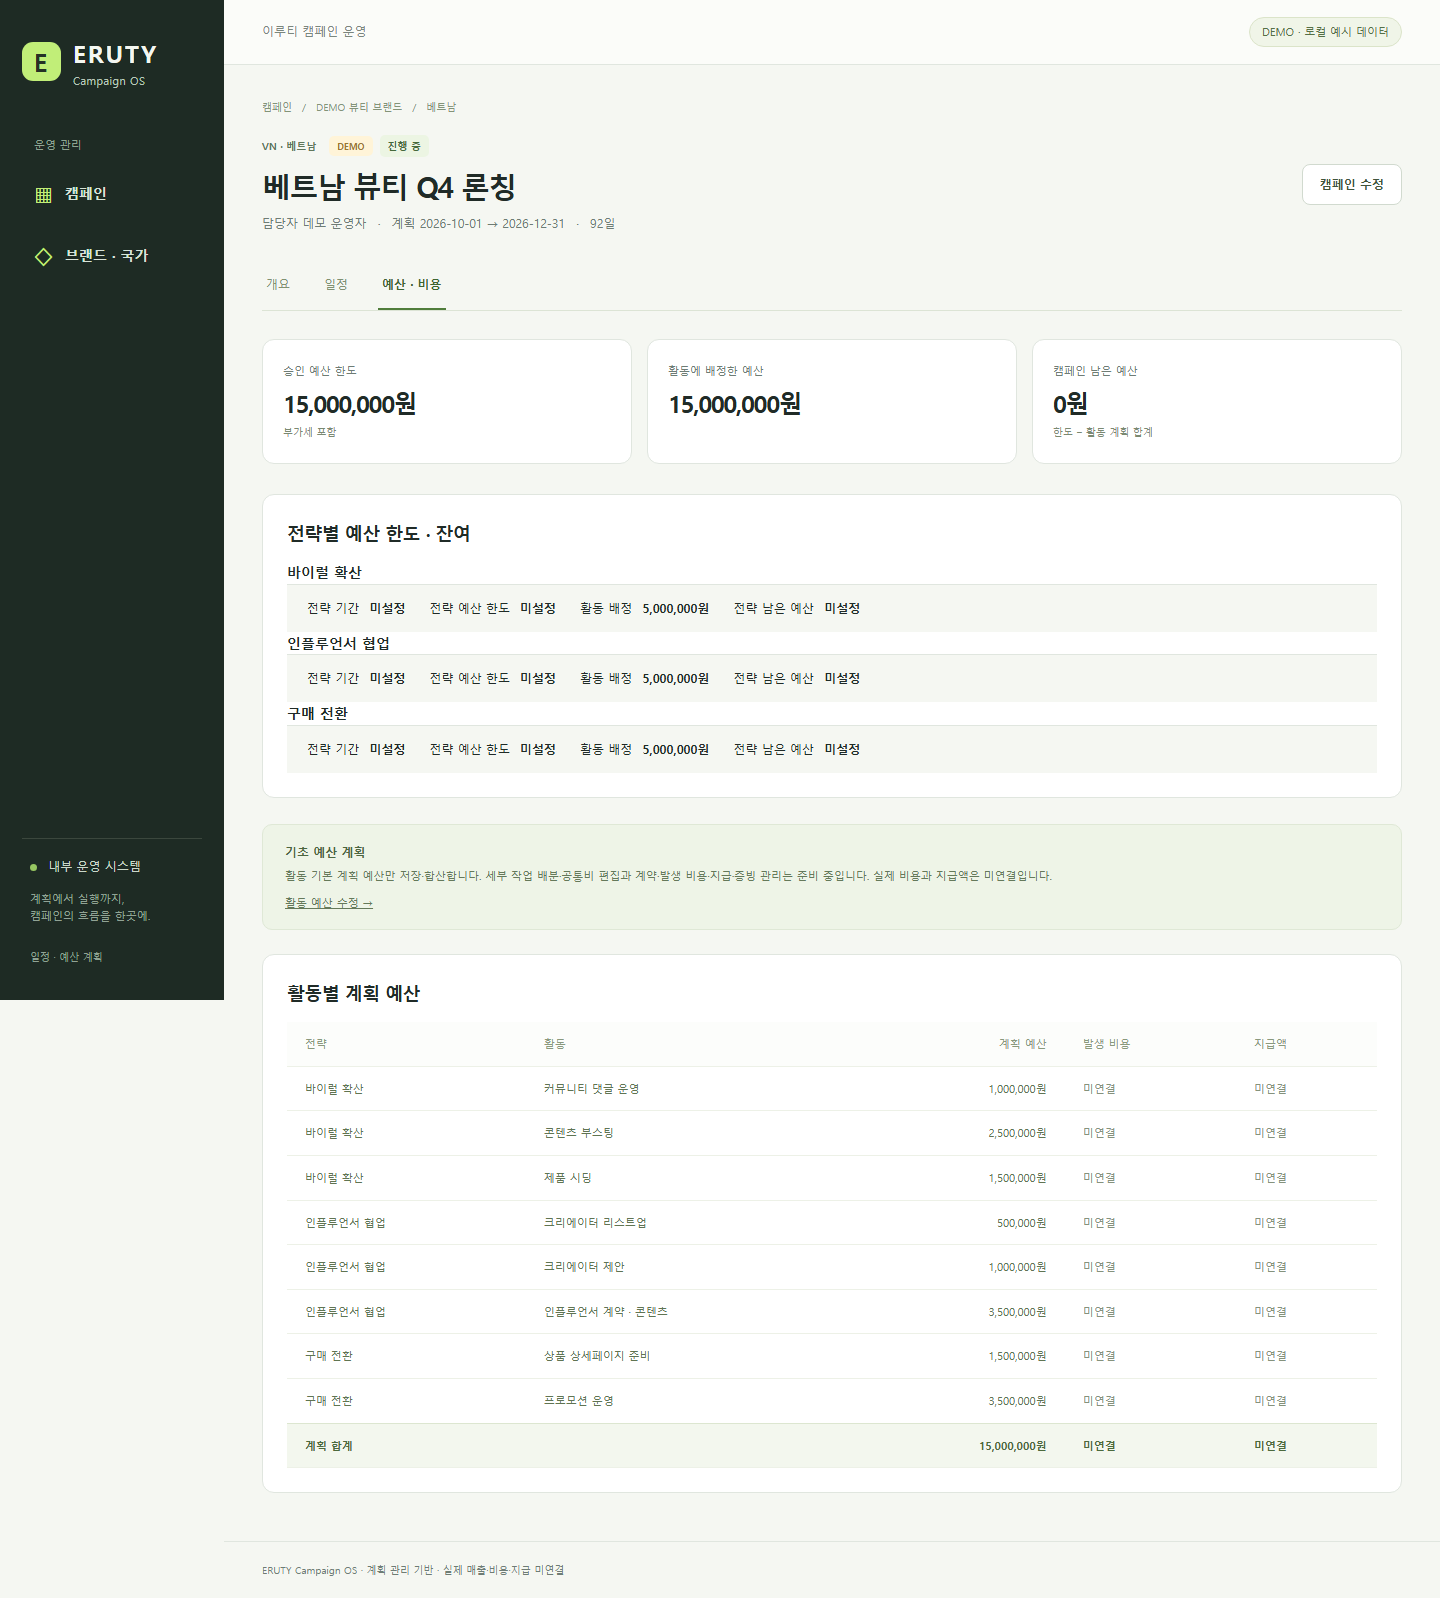
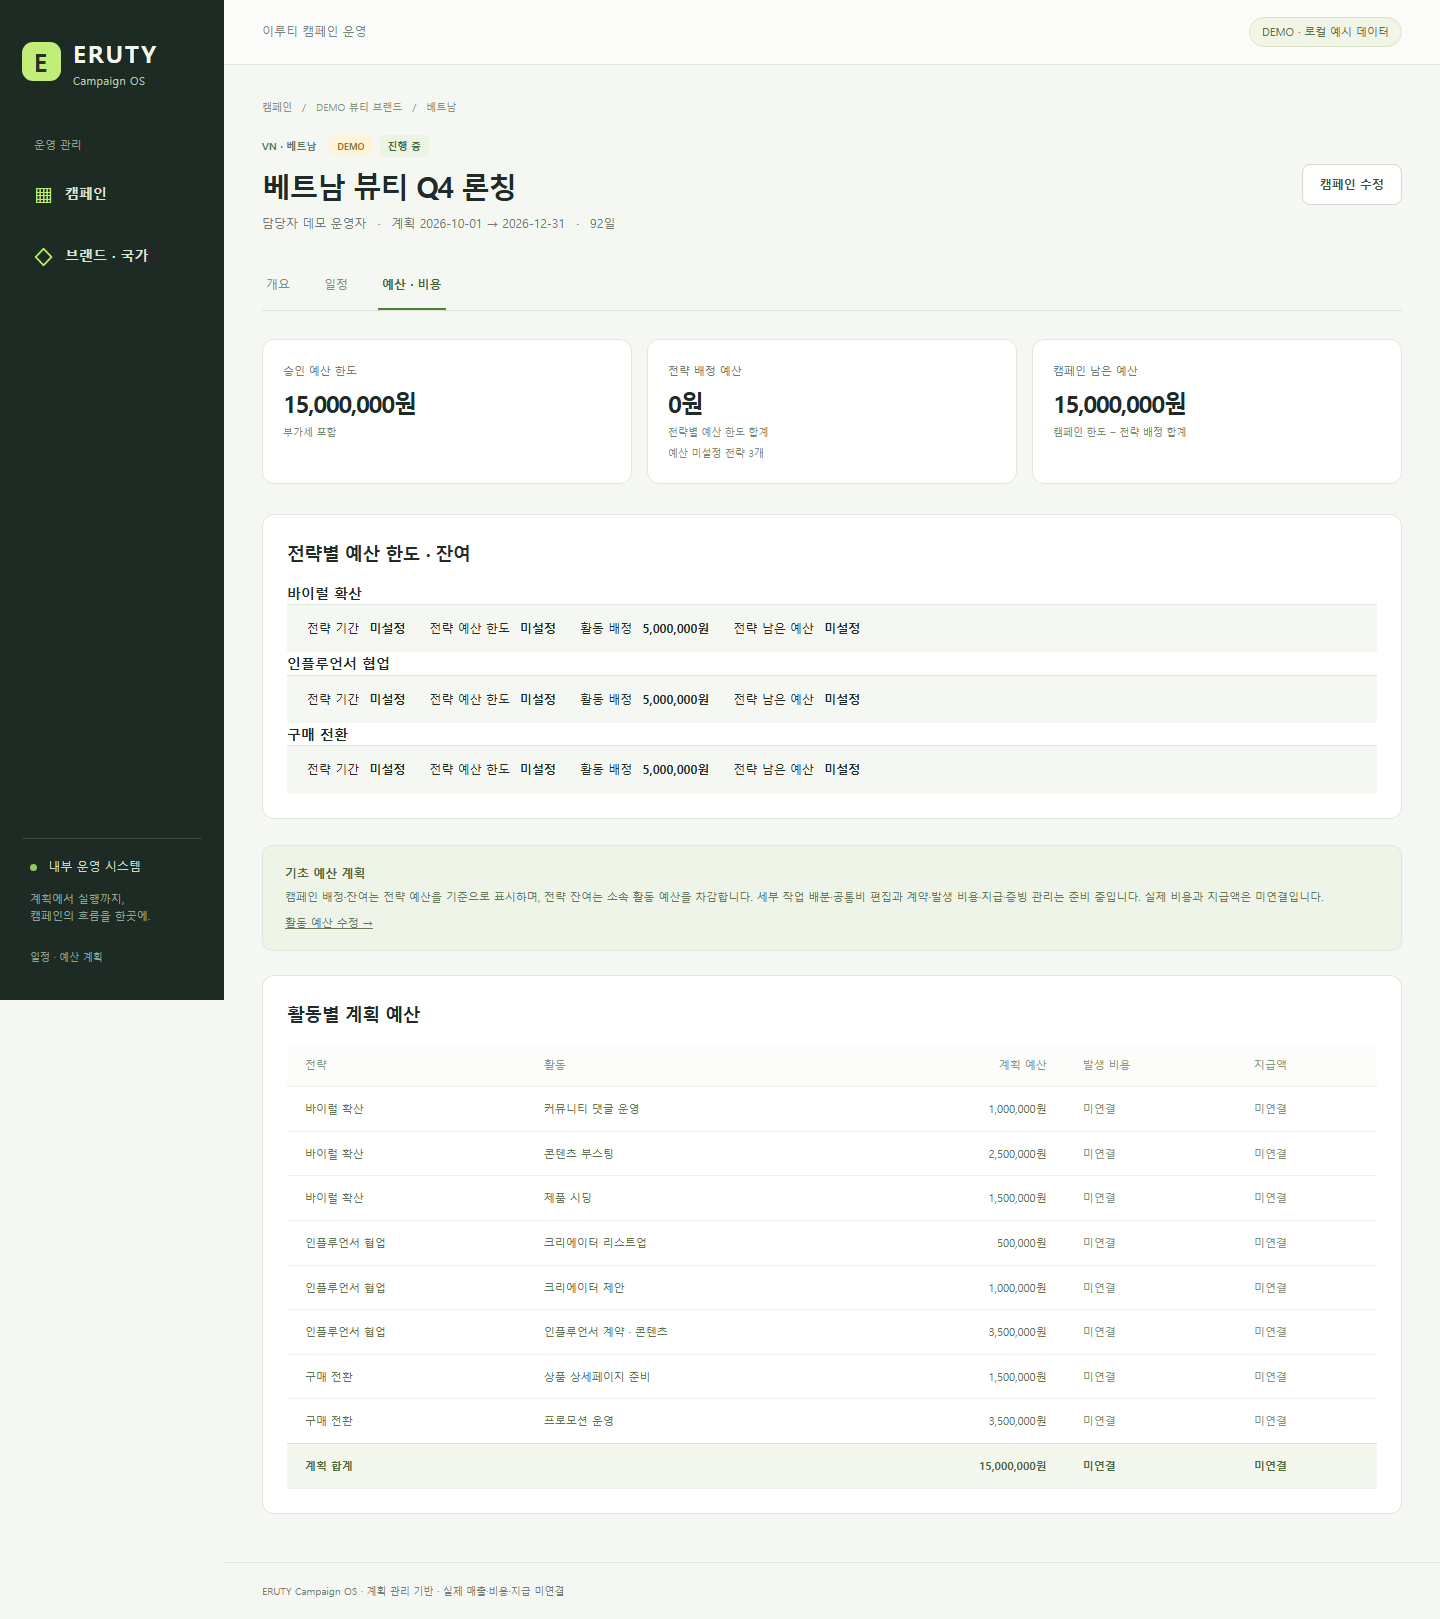
fix: summarize campaign budget allocations by strategy

diff --git a/components/campaign-detail.tsx b/components/campaign-detail.tsx
@@ -306,11 +306,12 @@ export default function CampaignDetail({
               </p>
             </div>
             <div className="metric">
-              <span>활동 배정 예산</span>
+              <span>전략 배정 예산</span>
               <strong className="amount">
-                {krw(c.summary.allocatedPlanKrw)}
+                {krw(c.summary.allocatedStrategyKrw)}
               </strong>
-              <Link href={`/campaigns/${id}/budget`}>활동별 계획 보기 →</Link>
+              <Link href={`/campaigns/${id}/budget`}>전략별 배정 보기 →</Link>
+              {c.summary.unbudgetedStrategyCount > 0 && <p>예산 미설정 전략 {c.summary.unbudgetedStrategyCount}개</p>}
             </div>
             <div className="metric">
               <span>순판매액 목표</span>
@@ -324,7 +325,7 @@ export default function CampaignDetail({
             </div>
           </div>
           <div className="overview-strip">
-            <div>캠페인 남은 예산 <strong>{krw(c.summary.unallocatedPlanKrw)}</strong>{c.summary.overBudget && <span className="badge warning">한도 초과</span>}</div>
+            <div>캠페인 남은 예산 <strong>{krw(c.summary.unallocatedStrategyKrw)}</strong>{c.summary.strategyOverBudget && <span className="badge warning">한도 초과</span>}</div>
             <div>
               <span className="dot green" />
               활동 <strong>{c.summary.activityCount}</strong>
@@ -567,28 +568,31 @@ export default function CampaignDetail({
               </p>
             </div>
             <div className="metric">
-              <span>활동에 배정한 예산</span>
+              <span>전략 배정 예산</span>
               <strong className="amount">
-                {krw(c.summary.allocatedPlanKrw)}
+                {krw(c.summary.allocatedStrategyKrw)}
               </strong>
+              <p>전략별 예산 한도 합계</p>
+              {c.summary.unbudgetedStrategyCount > 0 && <p>예산 미설정 전략 {c.summary.unbudgetedStrategyCount}개</p>}
             </div>
             <div
-              className={`metric ${c.summary.overBudget ? "over-budget" : ""}`}
+              className={`metric ${c.summary.strategyOverBudget ? "over-budget" : ""}`}
             >
               <span>
-                {c.summary.overBudget ? "예산 한도 초과" : "캠페인 남은 예산"}
+                {c.summary.strategyOverBudget ? "예산 한도 초과" : "캠페인 남은 예산"}
               </span>
               <strong className="amount">
-                {krw(c.summary.unallocatedPlanKrw)}
+                {krw(c.summary.unallocatedStrategyKrw)}
               </strong>
-              <p>한도 − 활동 계획 합계</p>
+              <p>캠페인 한도 − 전략 배정 합계</p>
             </div>
           </div>
           <section className="panel"><h2>전략별 예산 한도 · 잔여</h2>{c.strategies.map(strategy => <div key={strategy.id}><h3>{strategy.name}</h3><StrategyPlan strategy={strategy} workItems={c.workItems} campaign={c} /></div>)}</section>
           <aside className="note">
             <strong>기초 예산 계획</strong>
             <p>
-              활동 기본 계획 예산만 저장·합산합니다. 세부 작업 배분·공통비
+              캠페인 배정·잔여는 전략 예산을 기준으로 표시하며, 전략 잔여는
+              소속 활동 예산을 차감합니다. 세부 작업 배분·공통비
               편집과 계약·발생 비용·지급·증빙 관리는 준비 중입니다. 실제 비용과
               지급액은 미연결입니다.
             </p>

diff --git a/tests/unit/domain.test.ts b/tests/unit/domain.test.ts
@@ -71,12 +71,37 @@ describe("기초 데이터 검증", () => {
   });
 });
 describe("정확한 계획 집계", () => {
+  it("캠페인 잔여는 전략 배정 합계로 계산하고 활동을 중복 차감하지 않는다", () => {
+    const input = {
+      planStart: toDate("2026-10-01"), planEnd: toDate("2026-10-31"),
+      budgetCeilingKrw: 2500000n,
+      strategies: [{ budgetCeilingKrw: 100000n }, { budgetCeilingKrw: 1000000n }, { budgetCeilingKrw: null }],
+      budgetLines: [{ plannedAmountKrw: 100000n }], workItems: [],
+    };
+    expect(campaignSummary(input)).toMatchObject({
+      allocatedStrategyKrw: "1100000", unallocatedStrategyKrw: "1400000",
+      strategyOverBudget: false, unbudgetedStrategyCount: 1,
+      allocatedPlanKrw: "100000",
+    });
+    expect(campaignSummary({ ...input, budgetLines: [{ plannedAmountKrw: 500000n }] }).unallocatedStrategyKrw).toBe("1400000");
+    expect(campaignSummary({ ...input, strategies: [] }).unallocatedStrategyKrw).toBe("2500000");
+    expect(campaignSummary({ ...input, strategies: [{ budgetCeilingKrw: 0n }] }).unbudgetedStrategyCount).toBe(0);
+  });
+  it("전략 배정 초과와 큰 원화 합계를 정밀하게 계산한다", () => {
+    expect(campaignSummary({
+      planStart: toDate("2026-10-01"), planEnd: toDate("2026-10-31"),
+      budgetCeilingKrw: 9007199254740993n,
+      strategies: [{ budgetCeilingKrw: 9007199254740993n }, { budgetCeilingKrw: 1n }],
+      budgetLines: [], workItems: [],
+    })).toMatchObject({ allocatedStrategyKrw: "9007199254740994", unallocatedStrategyKrw: "-1", strategyOverBudget: true });
+  });
   it("겹치는 활동 기간을 더하지 않고 예산 항목만 한 번 더한다", () => {
     const result = campaignSummary(
       {
         planStart: toDate("2026-10-01"),
         planEnd: toDate("2026-10-10"),
         budgetCeilingKrw: 15n,
+        strategies: [],
         budgetLines: [{ plannedAmountKrw: 10n }, { plannedAmountKrw: 8n }],
         workItems: [
           {

diff --git a/tests/integration/crud.test.ts b/tests/integration/crud.test.ts
@@ -139,6 +139,7 @@ describe("실제 PostgreSQL / Prisma CRUD", () => {
     const campaign = await svc.saveCampaign(admin, { ...campaignInput(`TEST 전략 계획 ${runId}`), budgetCeilingKrw: "1000000" });
     let strategy = await svc.saveStrategy(admin, campaign.id, { name: "TEST 계획 전략", sortOrder: 0, planStart: "2026-10-02", planEnd: "2026-10-20", budgetCeilingKrw: "500000" });
     expect((await svc.detail(admin, campaign.id)).summary.unallocatedPlanKrw).toBe("1000000");
+    expect((await svc.detail(admin, campaign.id)).summary).toMatchObject({ allocatedStrategyKrw: "500000", unallocatedStrategyKrw: "500000" });
     strategy = await svc.saveStrategy(admin, campaign.id, { name: "TEST 계획 전략 수정", sortOrder: 0, revision: strategy.revision }, strategy.id);
     expect(strategy.planStart?.toISOString()).toBe("2026-10-02T00:00:00.000Z");
     expect(strategy.budgetCeilingKrw).toBe(500000n);
@@ -151,6 +152,7 @@ describe("실제 PostgreSQL / Prisma CRUD", () => {
     const result = await svc.detail(admin, campaign.id);
     expect(result.budgetCeilingKrw).toBe(1000000n);
     expect(result.summary.unallocatedPlanKrw).toBe("700000");
+    expect(result.summary).toMatchObject({ allocatedStrategyKrw: "500000", unallocatedStrategyKrw: "500000" });
     expect(result.strategies[0].budgetCeilingKrw).toBe(500000n);
     await svc.remove(admin, "work", activity.id, activity.revision, campaign.id);
     expect((await svc.detail(admin, campaign.id)).summary.unallocatedPlanKrw).toBe("1000000");

diff --git a/lib/domain.ts b/lib/domain.ts
@@ -20,6 +20,7 @@ type SummaryInput = {
   planStart: Date;
   planEnd: Date;
   budgetCeilingKrw: bigint;
+  strategies: { budgetCeilingKrw: bigint | null }[];
   budgetLines: { plannedAmountKrw: bigint }[];
   workItems: {
     id: string;
@@ -35,7 +36,15 @@ export function campaignSummary(c: SummaryInput, today = seoulToday()) {
     0n,
   );
   const activities = c.workItems.filter((w) => w.kind === "ACTIVITY");
+  const strategyAllocated = c.strategies.reduce(
+    (sum, strategy) => sum + (strategy.budgetCeilingKrw ?? 0n),
+    0n,
+  );
   return {
+    allocatedStrategyKrw: strategyAllocated.toString(),
+    unallocatedStrategyKrw: (c.budgetCeilingKrw - strategyAllocated).toString(),
+    strategyOverBudget: strategyAllocated > c.budgetCeilingKrw,
+    unbudgetedStrategyCount: c.strategies.filter(s => s.budgetCeilingKrw === null).length,
     allocatedPlanKrw: allocated.toString(),
     unallocatedPlanKrw: (c.budgetCeilingKrw - allocated).toString(),
     overBudget: allocated > c.budgetCeilingKrw,

diff --git a/components/types.ts b/components/types.ts
@@ -57,6 +57,10 @@ export type Campaign = {
   strategies: Strategy[];
   workItems: Work[];
   summary: {
+    allocatedStrategyKrw: string;
+    unallocatedStrategyKrw: string;
+    strategyOverBudget: boolean;
+    unbudgetedStrategyCount: number;
     allocatedPlanKrw: string;
     unallocatedPlanKrw: string;
     overBudget: boolean;

diff --git a/docs/STRATEGY_PLANNING.md b/docs/STRATEGY_PLANNING.md
@@ -2,8 +2,8 @@
 
 전략은 기존에 이름·정렬 순서만 저장했고 기간과 예산은 활동에만 있었다. 전략 추가·수정에 계획 시작일, 종료일, 예산 한도를 추가한다. PostgreSQL DATE와 nullable BIGINT로 기존 전략의 미설정 상태를 보존하며 기존 기간·예산을 임의로 채우지 않는다.
 
-- 캠페인 총예산 한도는 고정된다. 남은 예산 = 캠페인 한도 − 활동 배정 합계(공통 예산이 있으면 한 번 포함). 활동 등록·수정·삭제에 따라 잔여를 다시 계산한다.
-- 전략 한도는 활동 배정을 관리하는 기준이며 캠페인 배정 합계에 더하지 않는다. 전략 잔여 = 전략 한도 − 소속 활동 배정 합계. 선택적 세부 작업을 중복 합산하지 않는다.
+- 캠페인 총예산 한도는 고정된다. 2026-10-13 사용자 요청에 따라 캠페인 상단의 배정 예산은 전략 한도의 합계이며, 캠페인 남은 예산 = 캠페인 한도 − 전략 배정 합계이다. 전략 등록·수정·삭제에 따라 잔여를 다시 계산한다. 예산 미설정 전략은 합계에서 제외하고 개수를 표시하며 0원 설정과 구분한다.
+- 전략 잔여 = 전략 한도 − 소속 활동 배정 합계. 활동 등록·수정·삭제는 전략 잔여에 반영된다. 전략 배정과 활동 계획을 캠페인 잔여에서 중복 차감하지 않는다. 활동 계획 API 집계와 선택적 세부 작업 중복 합산 방지 규칙은 유지한다.
 - 전략 기간은 두 날짜를 함께 입력/해제하며 역전된 기간과 음수·원화 범위 초과를 서버/DB에서 차단한다. 날짜나 금액을 미설정한 기존 전략도 그대로 조회·편집한다. 예전 API가 새 필드를 생략하면 기존 값을 보존한다.
 - 전략의 한도 초과·기간 밖 작업은 경고로 표시한다. 전략을 수정해도 기존 활동 날짜·예산을 자동 변경하지 않는다. 새 활동의 기본 날짜만 전략 기간을 사용한다.
 - 개요에 캠페인 잔여, 전략 기간·한도·활동 배정·잔여를 표시한다. 일정 탭에는 전략 기간을, 예산 탭에는 전략별 한도·잔여를 표시한다. 계약·실제 지출·지급과는 별도의 계획 값이다.
@@ -15,3 +15,5 @@
 2026-10-12 검증 결과: 단위 31개, PostgreSQL 통합 14개, 브라우저 E2E 4개(총 49개) 통과. 잔여 표시 검증과 모바일 스크린샷 보완 후 관련 E2E 2개를 다시 통과했다. TypeScript, ESLint, 운영 빌드 통과. Supabase 운영 DB에 여섯 번째 마이그레이션을 적용하고 실제 eruty_app 역할로 전략 기간·한도 보존, 활동 배정 20만 원 → 30만 원에 따른 캠페인 잔여 80만 원 → 70만 원, 삭제 후 100만 원 복원을 확인했다. 검증용으로 생성한 행만 제거하고 감사 기록은 남겼다. 기존 Supabase 보안 알림(마이그레이션 메타데이터의 정책 없음, Auth 유출 비밀번호 보호 꺼짐)에 변경은 없다.
 
 스크린샷: `docs/screenshots/10-strategy-create.png`, `docs/screenshots/11-strategy-plan-mobile.png`. 실행은 `.env.example`을 복사해 DB/인증을 설정한 뒤 `npm ci`, `npm run db:migrate`, `npm run dev` 순서다. 운영 환경에서는 기존 Supabase 로그인 구성을 사용한다.
+
+2026-10-13 집계 수정 검증: 캠페인 한도 250만 원, 전략 한도 10만 원 + 100만 원이면 전략 배정 110만 원, 캠페인 잔여 140만 원으로 계산한다. 활동 10만 원을 추가하거나 수정해도 캠페인의 전략 배정을 다시 차감하지 않는다. 전략 미설정/0원, 초과, JS 안전 정수를 넘는 합계를 검사했다. 단위 33개 + PostgreSQL 통합 14개 + 브라우저 E2E 4개(총 51개), TypeScript·ESLint·운영 빌드가 통과했다. 실제 운영 DB를 eruty_app 역할로 읽어 모든 캠페인의 전략 합계와 잔여를 확인했으며 데이터 수정이나 새 마이그레이션은 없다. API에 `allocatedStrategyKrw`, `unallocatedStrategyKrw`, `strategyOverBudget`, `unbudgetedStrategyCount`를 추가하고 기존 활동 계획 집계 필드는 유지한다. 새 스크린샷은 `docs/screenshots/12-campaign-strategy-budget.png`이다. 추가 라이브러리는 없다.

diff --git a/docs/ARCHITECTURE_DECISIONS.md b/docs/ARCHITECTURE_DECISIONS.md
@@ -20,7 +20,8 @@ Brand -> BrandCountry -> Campaign -> Strategy -> WorkItem(ACTIVITY) -> WorkItem(
 ## 핵심 계산
 - allocated = SUM(activity budget lines) + SUM(campaign common lines)
 - subtask allocation은 위 SUM에 포함하지 않음 (분할 배정만 의미)
-- budget unallocated = ceiling - allocated; negative -> 초과 경고
+- activity-plan unallocated = ceiling - allocated; negative -> 활동 계획 초과 경고
+- 캠페인 개요와 예산 탭의 전략 배정 예산 = SUM(strategy budget ceilings). 캠페인 남은 예산 = 캠페인 한도 - 전략 배정 예산; negative -> 전략 배정 초과 경고. 전략 미설정 예산은 합계에서 제외하고 개수를 표시한다. 전략 내부의 남은 예산은 전략 한도 - 활동 배정 합계이다. 전략 배정과 활동 계획을 합산하거나 캠페인 잔여에서 두 번 차감하지 않는다. (2026-10-13 사용자 확정)
 - incurred = SUM(effective approved expenses); draft/reversed 제외
 - paid = SUM(effective cleared payments) net of reversals
 - unpaid = incurred - paid, 동일 지급 대상 범위에서 계산
